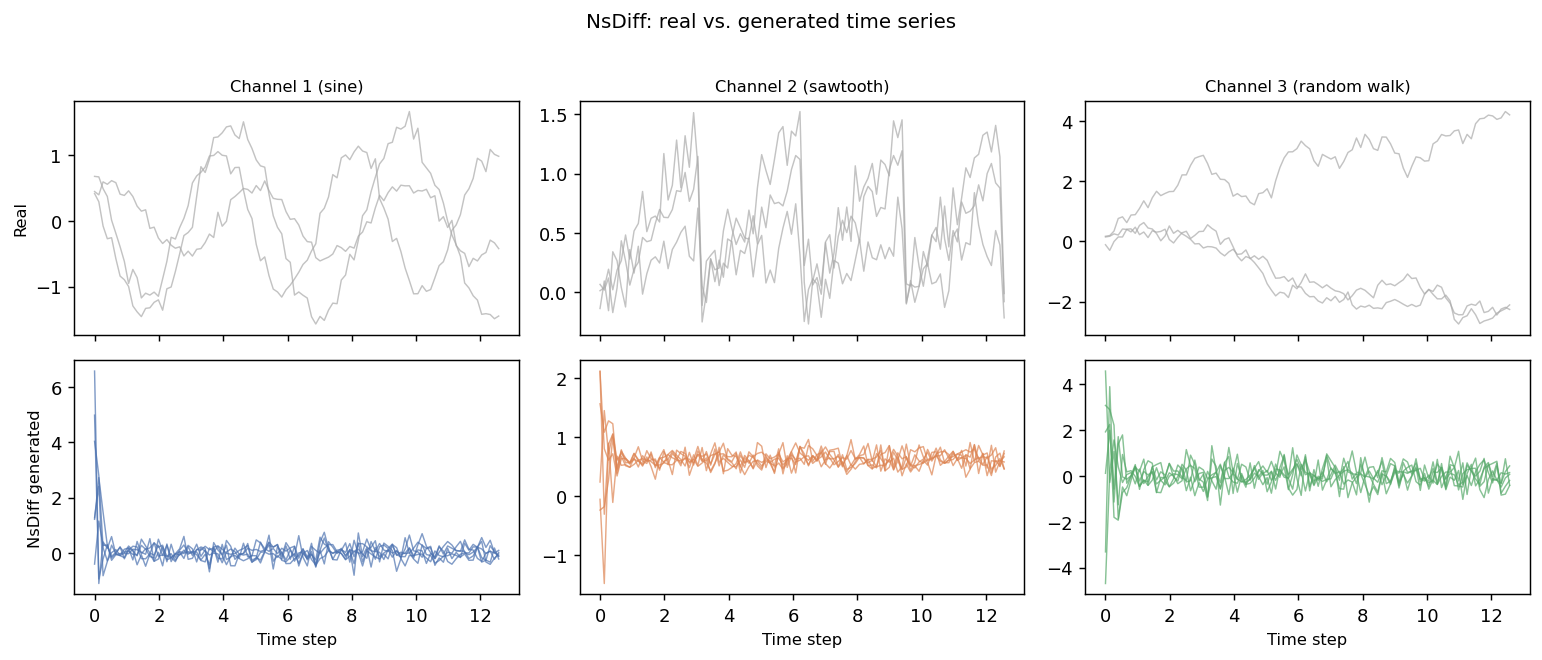
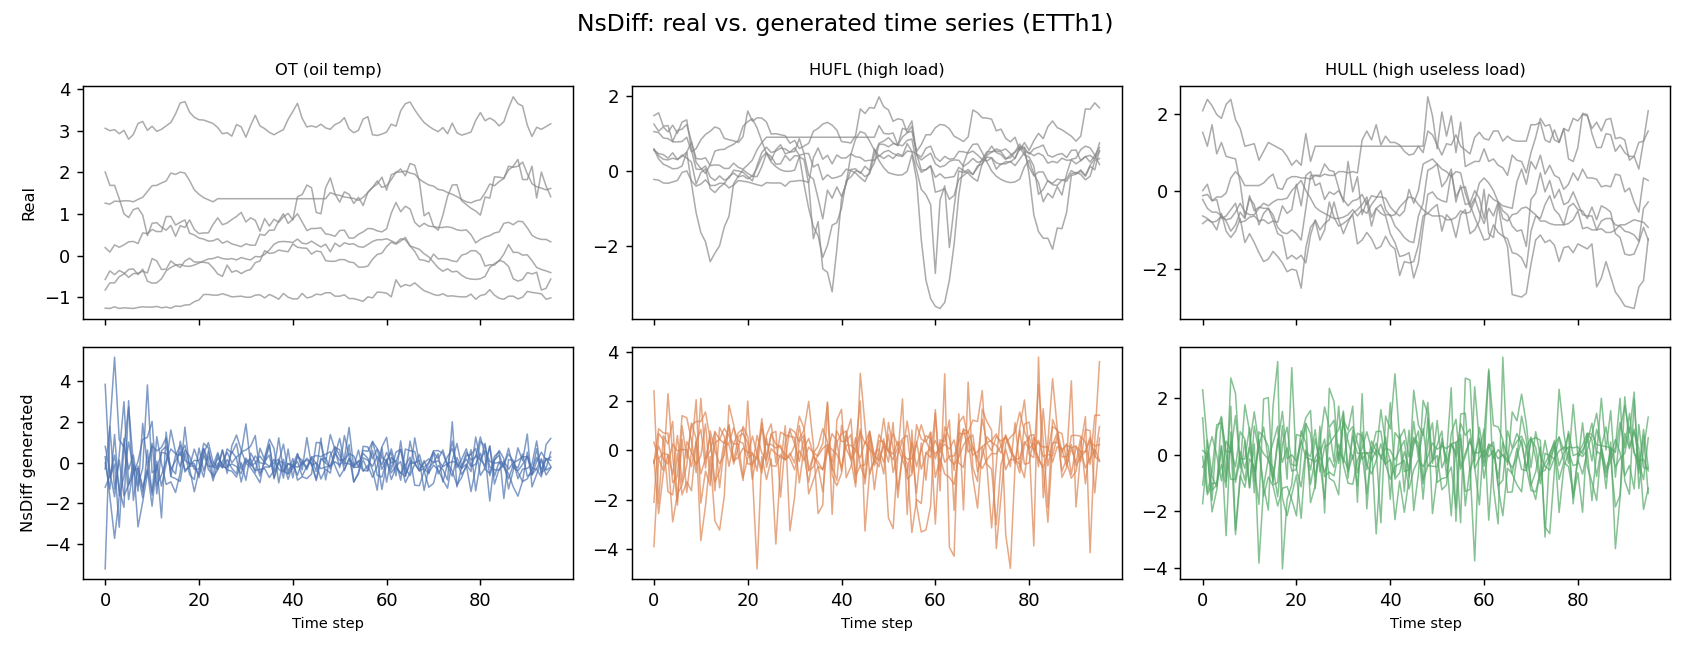
fix: NsDiff.generate() defaults to unit-variance gx; add x_ref param; fix prob_forecast figure intervals

Changed region(s): [[0.0, 0.0923, 0.9961, 0.9846], [0.3424, 0.0, 0.6537, 0.0615]]

diff --git a/torch_timeseries/model/NsDiff.py b/torch_timeseries/model/NsDiff.py
@@ -225,11 +225,25 @@ class NsDiff(nn.Module):
     # ── generation ────────────────────────────────────────────────────────────
 
     @torch.no_grad()
-    def generate(self, n: int, device: str = "cpu") -> Tensor:
-        """Reverse-diffusion sampling; returns (n, seq_len, n_features) on CPU."""
+    def generate(self, n: int, device: str = "cpu", x_ref: Tensor | None = None) -> Tensor:
+        """Reverse-diffusion sampling; returns (n, seq_len, n_features) on CPU.
+
+        Args:
+            n: number of sequences to generate.
+            device: torch device string.
+            x_ref: optional reference windows (B, T, C) used to estimate the local
+                variance gx.  When None, gx defaults to all-ones (unit variance),
+                matching standardised training data.
+        """
         dev = torch.device(device)
-        x_dummy = torch.zeros(n, self.seq_len, self.n_features, device=dev)
-        gx = self.sigma_net(x_dummy)
+        if x_ref is not None:
+            x_ref = x_ref.to(dev)
+            reps = (n + x_ref.shape[0] - 1) // x_ref.shape[0]
+            x_ref = x_ref.repeat(reps, 1, 1)[:n]
+            gx = self.sigma_net(x_ref)
+        else:
+            # unit variance: standard DDPM prior; matches standardised (mean=0, std=1) data
+            gx = torch.ones(n, self.seq_len, self.n_features, device=dev)
         y_0_hat = torch.zeros_like(gx)
 
         # Prior at T: N(0, gx)